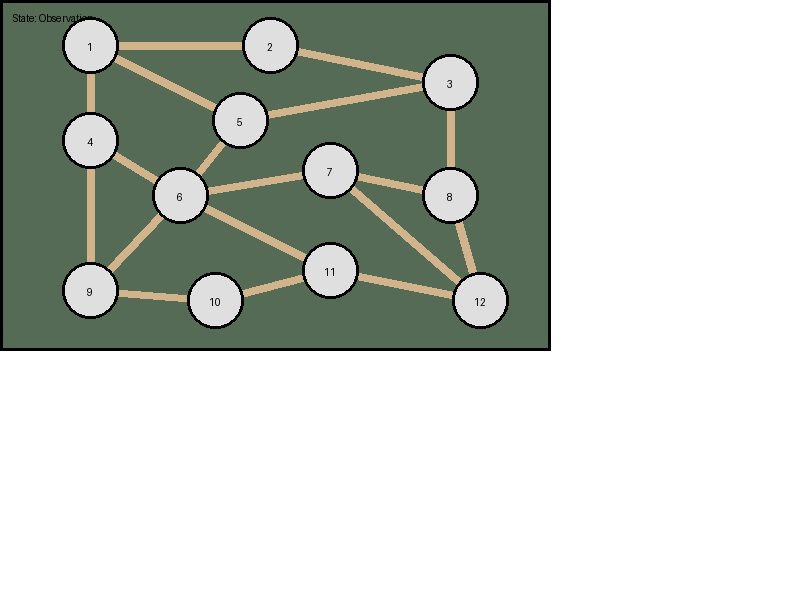
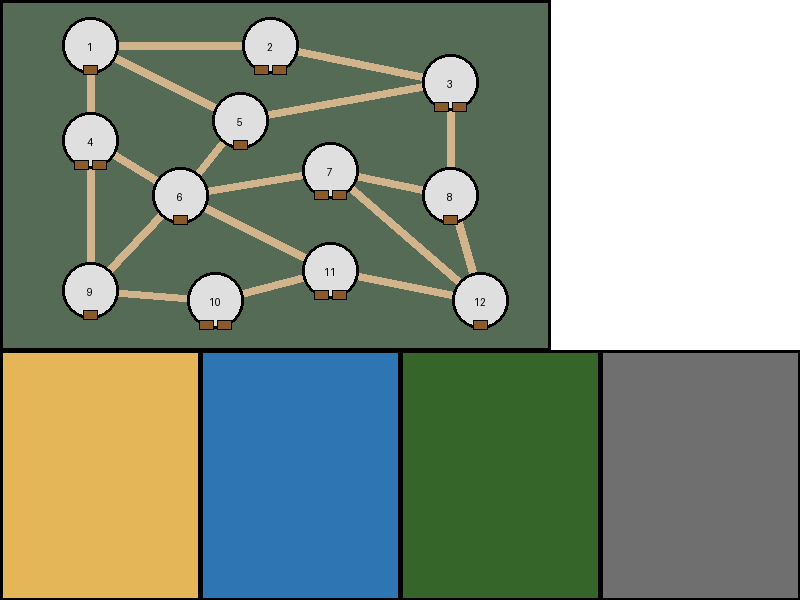
added faction boards

diff --git a/state_renderer/render.py b/state_renderer/render.py
@@ -126,8 +126,23 @@ class state_renderer:
             draw.text((cx - label_w / 2, cy - label_h / 2), label, fill="black", font=font)
 
             slots = int(clearing_data.get("building_slots", 0))
+            print(slots)
             if slots > 0:
                 add_build_spots(center, slots)
+
+        #faction boards
+        #marquise
+        draw.rectangle((0,350,200,600), fill=(229,182,88), outline="black", width=3)
+
+        #eryie
+        draw.rectangle((200,350,400,600), fill=(46,117,179), outline="black", width=3)
+
+        #woodland
+        draw.rectangle((400,350,600,600), fill=(53,101,40), outline="black", width=3)
+
+        #vagabound
+        draw.rectangle((600,350,800,600), fill=(111,111,111), outline="black", width=3)
+
 
         img.save(output_path)
 

diff --git a/main.py b/main.py
@@ -7,7 +7,7 @@ engine = RootEngine(seed=7)
 render = state_renderer()
 
 marquise_observation = engine.get_observation(Faction.MARQUISE)
-
+print(marquise_observation)
 render.render_board(marquise_observation, 'game_state.png')
 
 
